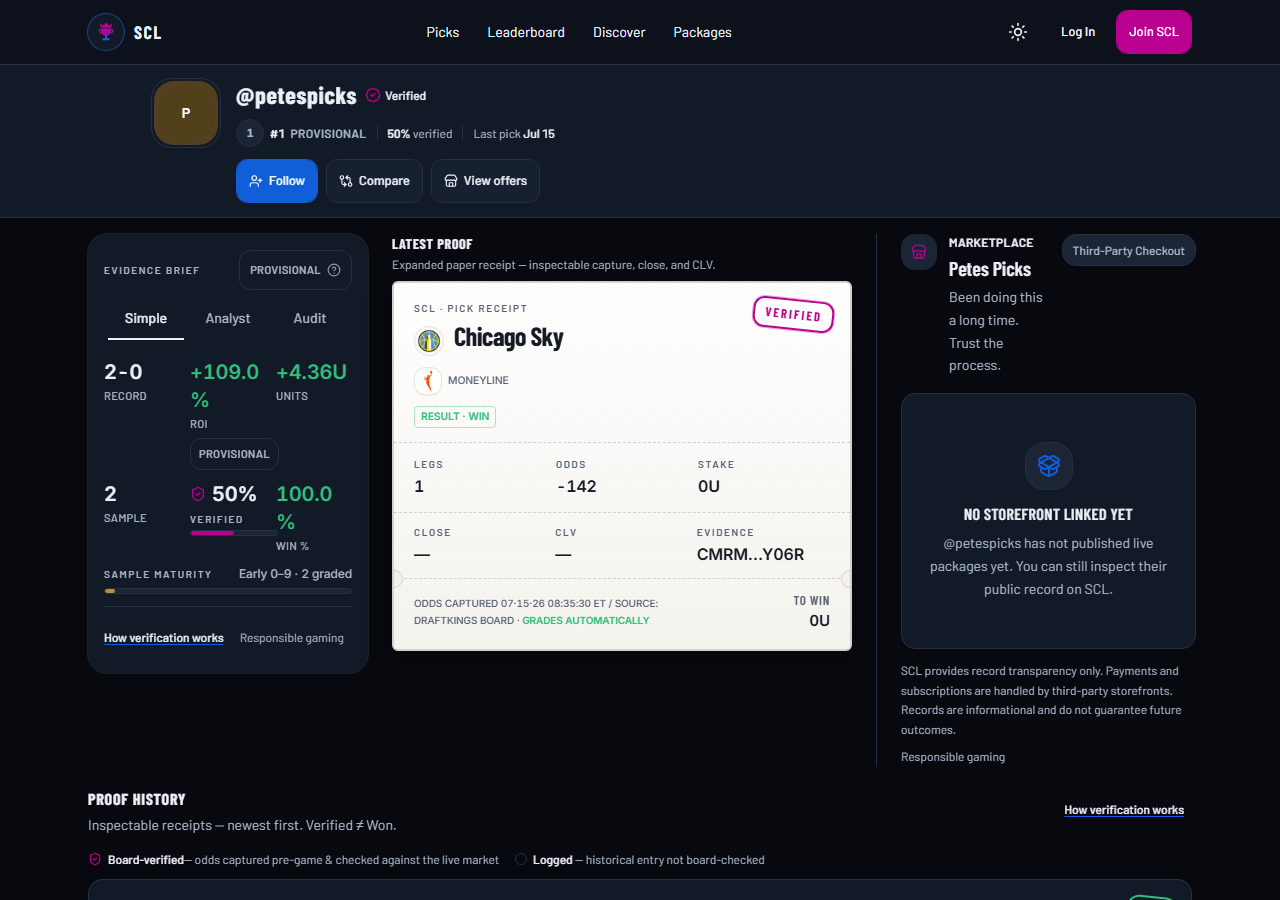
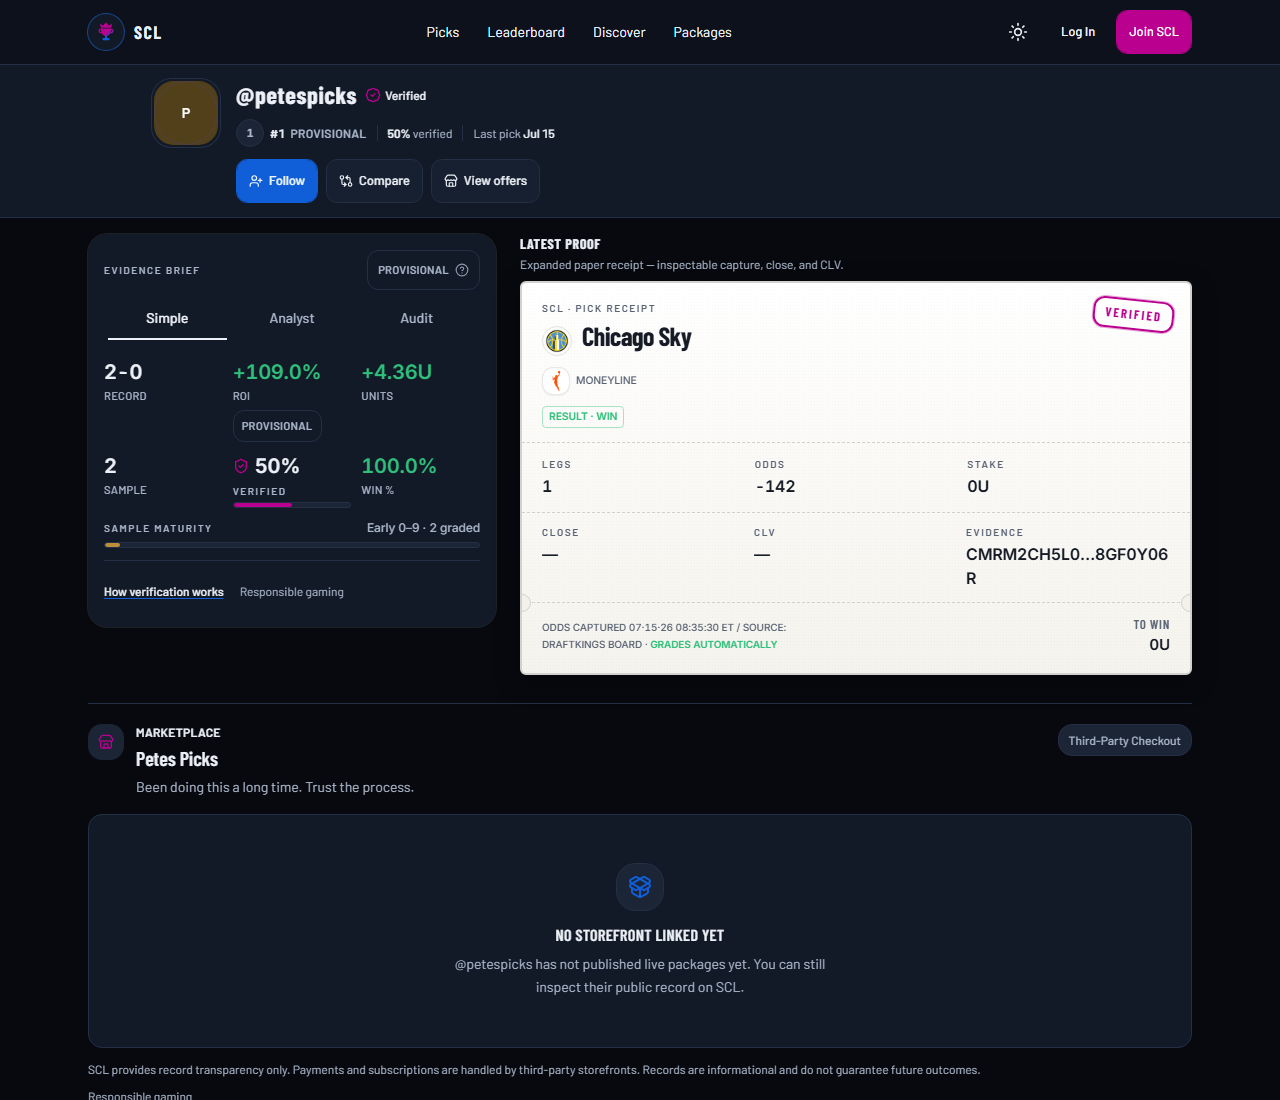
fix(ui): fix 1440 marketplace column span override
Use max-[1439px]/min-[1440px] pair so lg:col-span-2 cannot win CSS order at 1440+. Refresh profile desktop screenshots.

diff --git a/src/components/scl/evidence-brief.tsx b/src/components/scl/evidence-brief.tsx
@@ -387,7 +387,14 @@ export function EvidenceBrief({
         {evidenceRecord}
         <div className="min-w-0 lg:sticky lg:top-20">{latestProof}</div>
         {desktopStorefront ? (
-          <aside className="border-border hidden min-[1440px]:col-span-1 min-[1440px]:mt-0 min-[1440px]:min-w-[320px] min-[1440px]:border-t-0 min-[1440px]:border-l min-[1440px]:pt-0 min-[1440px]:pl-6 lg:col-span-2 lg:mt-1 lg:block lg:border-t lg:pt-5">
+          <aside
+            className={cn(
+              "border-border hidden lg:block",
+              // max-/min- pair avoids lg: winning over min-[1440px] in CSS order
+              "max-[1439px]:col-span-2 max-[1439px]:mt-1 max-[1439px]:border-t max-[1439px]:pt-5",
+              "min-[1440px]:col-span-1 min-[1440px]:mt-0 min-[1440px]:min-w-[320px] min-[1440px]:border-t-0 min-[1440px]:border-l min-[1440px]:pt-0 min-[1440px]:pl-6",
+            )}
+          >
             {desktopStorefront}
           </aside>
         ) : null}
